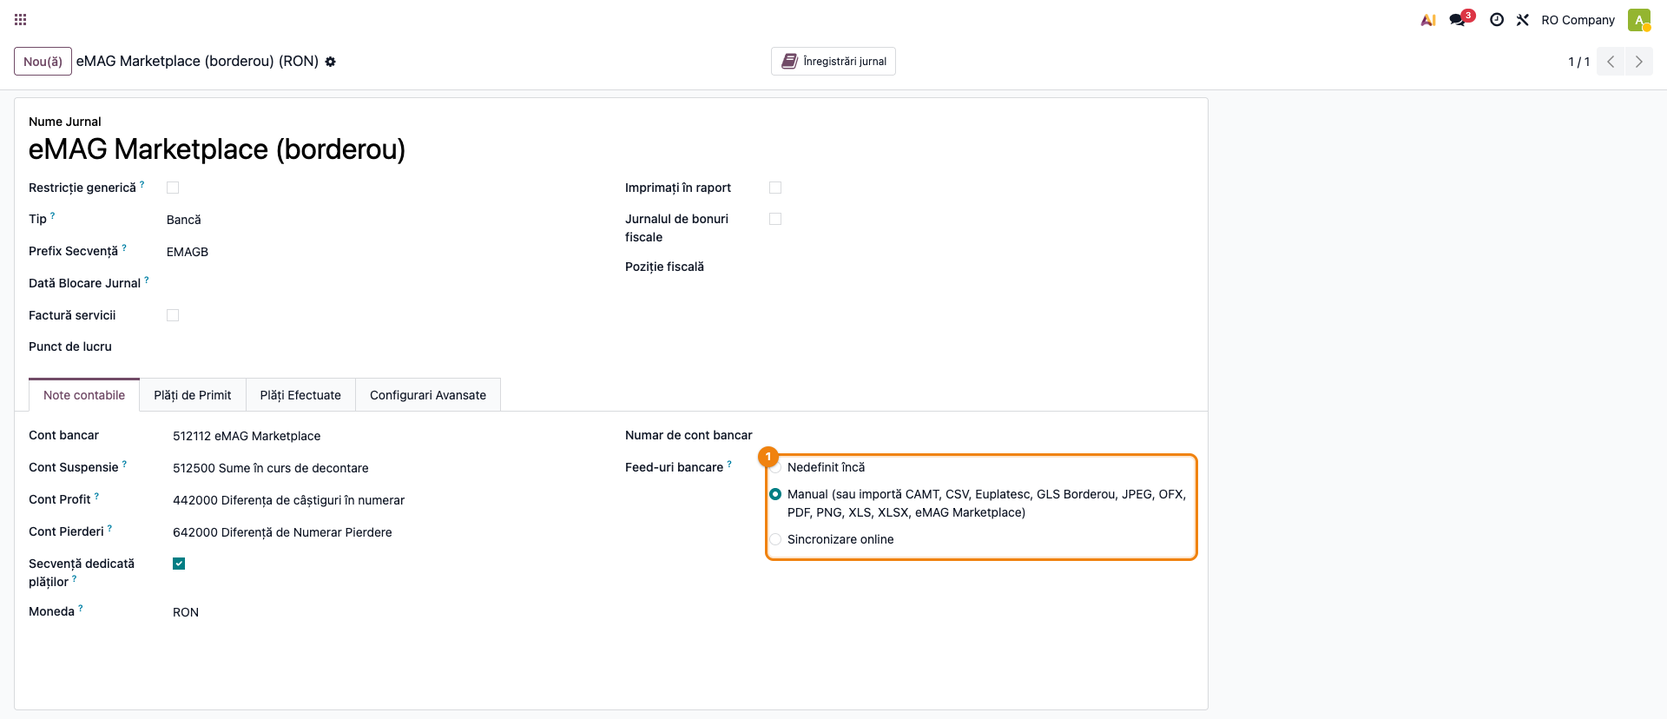
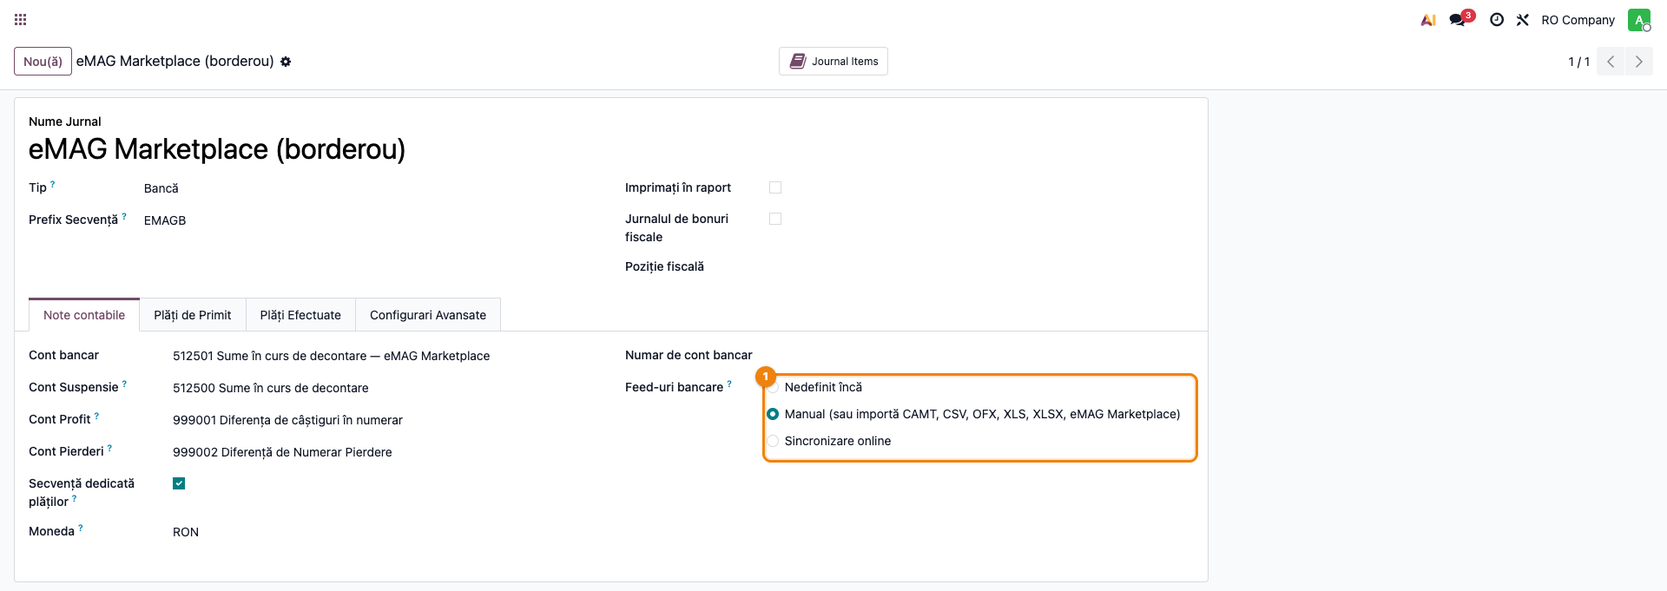
[UPD] deltatech_account_bank_statement_import_emag: foreign-currency payouts, vouchers and KM
Assisted-by: Claude Opus 5.5

diff --git a/deltatech_account_bank_statement_import_emag/FISA_CONSULTANT.md b/deltatech_account_bank_statement_import_emag/FISA_CONSULTANT.md
@@ -60,11 +60,27 @@ Roluri recomandate pentru testare:
 - **581 Viramente interne** — contrapartida liniei de virare (ZP), care se regăsește în extrasul băncii;
 - **5121 Conturi la bănci** — unde intră efectiv virarea eMAG.
 
+La borderourile în valută (eMAG HU în HUF, eMAG BG în EUR) se adaugă:
+
+- **5125.EMAG în valută** — câte un cont pentru fiecare jurnal în valută (de ex. „Sume în curs de decontare —
+  eMAG Ungaria", în HUF), separat de cel în lei, ca soldul fiecărei monede să se poată urmări distinct;
+- **665 Cheltuieli din diferențe de curs valutar** / **765 Venituri din diferențe de curs valutar** — nota de
+  diferență de curs a payout-ului, postată automat la import, și închiderea diferenței rămase pe 581 la virarea
+  în lei.
+
 Date minime pentru demo:
 - companie românească cu localizarea contabilă instalată;
 - un jurnal de tip **Bancă** dedicat eMAG, în RON, cu cont tranzitoriu (suspense) configurat;
 - un fișier *Account statement details* descărcat din eMAG (sau o mostră sintetică echivalentă);
 - opțional, facturi de client postate, cu numărul comenzii eMAG în referință, pentru reconciliere.
+
+Pentru borderourile în valută, în plus:
+- un jurnal de tip **Bancă** separat pentru fiecare monedă (de ex. `EMAGH` în HUF, `EMAGE` în EUR), cu
+  moneda setată pe jurnal;
+- cursurile BNR pentru moneda respectivă, pe fiecare zi din perioada borderoului (actualizarea automată a
+  cursurilor sau introducere manuală în **Contabilitate → Configurare → Monede**);
+- în **Contabilitate → Configurare → Setări**, secțiunea *Diferențe de curs*: jurnalul de diferențe de curs și
+  conturile 665 / 765 completate — fără ele, importul în valută este refuzat (vezi §9).
 
 Codurile de document care apar în borderou:
 
@@ -72,6 +88,7 @@ Codurile de document care apar în borderou:
 |-----|-------------|-------------------------|
 | `KD` | încasare card online | negativ |
 | `KX` | încasare ramburs | negativ |
+| `KM` | decont de vouchere (partea de voucher suportată de eMAG) | negativ |
 | `ZC` | restituire card online (retur) | pozitiv |
 | `DM` | factură eMAG (comisioane, servicii) | pozitiv |
 | `C3` | notificare de închidere pre-înrolare | pozitiv |
@@ -94,7 +111,7 @@ Codurile de document care apar în borderou:
 ### Definirea jurnalului eMAG
 
 Un jurnal separat pentru fiecare cont de vânzător eMAG și pentru fiecare monedă a borderoului
-(coloana *Document currency*).
+(coloana *Document currency*; dacă e goală, se ia *Local company currency*).
 
 | Câmp (fila Setări avansate / Informații) | Valoare | De ce |
 |---|---|---|
@@ -149,7 +166,7 @@ după coloanele din antet, deci **nu se mai deschide asistentul de mapare a colo
 ### Pasul 3 — Verificarea extrasului importat
 
 Se creează câte un extras pentru fiecare virare din fișier (grupare după *Clearing document*),
-numit **eMAG payout &lt;număr virare&gt;**, cu data liniei `ZP`.
+numit **Virare eMAG &lt;număr virare&gt;** (în interfața în engleză, *eMAG payout*), cu data liniei `ZP`.
 
 1. **Găsiți pe ecran**: fiecare linie poartă tipul documentului eMAG și referința (numărul comenzii
    pentru încasări, numărul facturii eMAG pentru comisioane). Clientul este completat automat acolo
@@ -168,6 +185,7 @@ eMAG sau spre bancă intră cu minus). Rândurile *Initial balance* / *Actual ba
 |---|---|---|---|---|
 | `KD` | Incasare card online | negativă → **pozitivă** | comanda cu numărul din *Reference ID* (`client_order_ref`) → clientul comenzii | reconciliază cu factura clientului (sau cu avansul, dacă s-a plătit înainte de livrare) |
 | `KX` | Incasare ramburs | negativă → **pozitivă** | la fel ca `KD` | reconciliază cu factura clientului |
+| `KM` | Decont voucher | negativă → **pozitivă** | de regulă **fără partener**: *Reference ID* este numărul decontului (`V-MKTP-…`) sau un număr intern eMAG, nu comanda | reconciliază cu creanța de voucher deschisă pe 461.EMAG (plata pe *Jurnal vouchere* sau linia de voucher de pe factură), **nu** cu factura clientului; vezi „Vouchere eMAG" |
 | `ZC` | Restituire card online | pozitivă → **negativă** | la fel ca `KD` (comanda returnată) | reconciliază cu încasarea aceleiași comenzi (se anulează reciproc) sau cu nota de credit către client |
 | `DM` | Factura (comisioane, servicii) | pozitivă → **negativă** | factura de furnizor din Odoo cu `ref` = *Reference ID* (`C-MKTP-…`, `A-MKTP-…`), dacă e unică → Dante International | reconciliază cu factura de furnizor, integral sau parțial |
 | `C3` | Notificare închidere pre-înrolare | pozitivă → **negativă** | ca `DM` (`E-MKTP-…`) | tratată ca `DM`: reconciliază cu factura de furnizor corespunzătoare |
@@ -195,13 +213,14 @@ contrapartida reală. Rezultatul final, pe tip de document:
 |---|---|---|---|
 | `KD` | încasare card online | **Dr 5125.EMAG = Cr 4111 Clienți** | factura clientului; dacă încasarea precede livrarea, vezi nota de TVA de mai jos (**Cr 419**) |
 | `KX` | încasare ramburs | **Dr 5125.EMAG = Cr 4111 Clienți** | factura clientului |
+| `KM` | decont de vouchere eMAG | **Dr 5125.EMAG = Cr 461.EMAG** | creanța de voucher a comenzii, deschisă pe 461.EMAG |
 | `ZC` | restituire card online | **Dr 4111 Clienți = Cr 5125.EMAG** (**Dr 419 = Cr 5125.EMAG** dacă încasarea inițială a mers pe avans) | de regulă se stinge cu încasarea (`KD`) a aceleiași comenzi; factura de stornare către client se emite separat |
 | `DM` | factură de comision / servicii Dante | **Dr 401 Furnizori (Dante) = Cr 5125.EMAG** | factura de furnizor deja înregistrată (OMFP 1802, pct. 56 alin. (3): compensarea se face numai după contabilizarea creanțelor și datoriilor; valoarea brută se prezintă în notele explicative) |
 | `C3` | notificare închidere pre-înrolare | **Dr 401 Furnizori (Dante) = Cr 5125.EMAG** | factura de furnizor cu `ref` = `E-MKTP-…`; tratament identic cu `DM` **doar dacă există factura Dante**. Fără factură, nota pe 401 nu are document justificativ (OMFP 1802, pct. 56 alin. (2)): provizoriu **Dr 473 = Cr 5125.EMAG**, apoi la primirea facturii **Dr 401 = Cr 473**, sau **Dr 6xx = Cr 473** dacă se stabilește că e o reținere fără factură. Natura documentului se verifică în contractul cu eMAG |
 | `ZP` | virare către bancă | **Dr 581 Viramente interne = Cr 5125.EMAG** | linia unică din extrasul băncii reale; ambele linii se închid pe 581, deci verificarea este **sold 581 = 0** (reconcilierea pe 581 se face doar dacă contul o permite în baza voastră) |
 | — | extrasul băncii reale (încasare de la Dante sau HeyBlu) | **Dr 5121 Bancă = Cr 581 Viramente interne** | linia `ZP`, prin 581 |
 
-Verificare: pe o virare completă, suma liniilor `KD`+`KX`−`ZC`−`DM`−`C3` este egală cu `ZP`, deci
+Verificare: pe o virare completă, suma liniilor `KD`+`KX`+`KM`−`ZC`−`DM`−`C3` este egală cu `ZP`, deci
 5125.EMAG iese pe zero (exemplu: 1.000,00 + 500,00 − 100,00 − 250,00 − 50,00 = 1.100,00).
 
 Nu se folosește **Dr 5121 = Cr 4111** cu partener HeyBlu sau Dante (clientul este clientul final) și nici
@@ -279,6 +298,68 @@ borderou real analizat, din 64 de potriviri, 5 diferențe erau reale (de la sub 
 **cauza lor nu a fost confirmată** — nu se presupune transport sau voucher fără să se
 verifice comanda.
 
+### Vouchere eMAG
+
+Clientul poate plăti o parte din comandă cu un voucher. Linia `KD` / `KX` din borderou vine cu suma
+**plătită efectiv de client**, adică totalul comenzii minus voucher, iar importul o aduce ca atare: modulul
+nu are nicio regulă pentru vouchere. Ce se schimbă este doar factura cu care se reconciliază linia, iar
+aceasta depinde de cine suportă voucherul și de configurarea backend-ului eMAG din conectorul
+`deltatech_marketplace_emag` (fila *Comenzi și produse*).
+
+**Voucherul acordat de vânzător** este o reducere comercială obișnuită: conectorul îl pune pe comandă ca
+linie pe **Produs de discount**, cu TVA, și scade baza de TVA. Factura are deja totalul plătit de client, deci
+linia `KD` / `KX` o închide exact. Voucherul vânzătorului nu se recuperează de la nimeni.
+
+**Voucherul suportat de eMAG** nu scade baza de TVA (voucher cu utilizări multiple, art. 274^1 și art. 286
+alin. (1) lit. f) Cod fiscal): TVA-ul rămâne pe valoarea întreagă a mărfii, iar partea voucherului este o
+creanță la eMAG, închisă de **decontul de vouchere**. eMAG îl plătește **în aceeași virare** cu
+borderoul, ca linie `KM` „Decont voucher" (cu o linie `ZP` de aceeași valoare). Există două
+variante: voucherul **nu este pus pe factură** sau **este pus pe factură**.
+
+| Variantă (backend eMAG) | Factura clientului | Ce închide linia `KD` / `KX` |
+|---|---|---|
+| **A. Voucherul nu e pe factură** (implicit): *Jurnal vouchere* completat, bifa *Import vouchers as product lines* debifată | valoarea întreagă; la postare, conectorul înregistrează partea eMAG ca plată pe *Jurnal vouchere*, cu numărul comenzii eMAG în memo | restul de plată al facturii, egal cu suma încasată |
+| **B. Voucherul e pe factură:** bifa *Import vouchers as product lines* activă și *Produs voucher* completat | are o linie negativă pe *Produs voucher*, fără TVA, deci totalul facturii este suma plătită de client | totalul facturii |
+
+În ambele variante linia din borderou se potrivește exact cu ce mai are clientul de plătit, iar 4111 se închide.
+Notele contabile, pentru un voucher eMAG de 50 lei pe o comandă de 300 lei (încasat `KD` = 250 lei):
+
+| Moment | A. Voucherul nu e pe factură | B. Voucherul e pe factură |
+|---|---|---|
+| Factura | `4111 = 707 + 4427` (300 lei) | `4111 (250) + 461.EMAG (50) = 707 + 4427` (300 lei) |
+| Postarea facturii | `461.EMAG = 4111` (50 lei, plata pe *Jurnal vouchere*) | — |
+| Linia `KD` din borderou | `5125.EMAG = 4111` (250 lei) | `5125.EMAG = 4111` (250 lei) |
+| Linia `KM` din borderou (decontul de vouchere) | `5125.EMAG = 461.EMAG` (50 lei) | `5125.EMAG = 461.EMAG` (50 lei) |
+
+„461.EMAG" este analiticul de debitori diverși pentru Dante International: în varianta A este contul
+de încasări în curs al metodelor de plată de pe *Jurnal vouchere*; în varianta B este contul de
+venit setat pe *Produs voucher*. Dacă pe *Produs voucher* rămâne un cont de venit, venitul apare micșorat,
+iar linia `KM` din borderou nu are nicio creanță pe care s-o închidă — contul se alege
+împreună cu contabilul.
+
+Varianta A este cea recomandată: linia fără TVA din varianta B este respinsă de validarea
+e-Factura (CIUS-RO cere cel puțin o taxă pe fiecare linie), iar factura apare sub valoarea mărfii. Pentru
+extrasul eMAG cele două variante dau aceeași potrivire.
+
+Cazuri speciale:
+
+- **Backend fără *Jurnal vouchere* și fără *Produs voucher*:** voucherul rămâne doar notă pe comandă. Factura
+  are valoarea întreagă, `KD` / `KX` o acoperă parțial, iar diferența egală cu voucherul rămâne pe 4111.
+  Nu se trece pe diferențe de rotunjire: se înregistrează partea eMAG pe 461.EMAG (o plată pe un jurnal
+  cu acest cont) sau se completează configurarea backend-ului pentru comenzile următoare.
+- **Comandă facturată înainte să existe voucherul pe ea:** conectorul nu modifică o factură postată și
+  postează doar un mesaj pe comandă. Diferența rămâne pe 4111, ca mai sus; dacă factura se corectează (notă
+  de creditare sau nu) este o decizie a contabilului.
+- **Livrare la locker:** partea de voucher aplicată pe taxa de transport nu intră pe factură și scade din
+  ramburs (`KX`); suma rămâne egală cu ce are clientul de plătit pe factură.
+- **Decontul de vouchere în borderou:** vine ca linie `KM` „Decont voucher" în aceeași virare, verificat pe
+  borderouri reale eMAG HU și BG (octombrie 2026). *Reference ID* este numărul decontului (`V-MKTP-HU-…`)
+  sau un număr intern eMAG, nu comanda, deci clientul nu se completează și potrivirea cu creanța de pe
+  461.EMAG se face după sumă și dată. Dacă suma decontului nu se regăsește într-o singură creanță, verificați
+  dacă acoperă voucherele mai multor comenzi și reconciliați `KM` cu toate liniile respective.
+- **Comandă anulată, cu voucher:** vezi „Vouchere pe comanda anulată" mai sus (nu e verificat pe un borderou
+  real).
+
 ### Când încasarea este deja înregistrată pe alt jurnal
 
 Borderoul presupune că factura clientului este **deschisă** până la reconciliere. Dacă firma înregistrează
@@ -306,6 +387,34 @@ borderoul eMAG (atunci plata pe celălalt jurnal nu se mai înregistrează pentr
 existent (atunci borderoul se folosește doar pentru `ZP`, `DM` și `C3`). Nu le rulați pe amândouă pentru
 aceleași comenzi.
 
+### Borderou în valută (eMAG HU, eMAG BG)
+
+Borderourile eMAG Ungaria (HUF) și eMAG Bulgaria (EUR) se importă într-un jurnal în moneda borderoului.
+Fiecare linie rămâne la data ei și se convertește în lei la cursul BNR din acea dată (OMFP 1802/2014
+pct. 319). Payout-ul se închide pe zero în valută, dar în lei pe 5125.EMAG rămâne un sold, pentru că o
+încasare (ex. ramburs KX din 28.09) și compensarea ei (ZP din 02.10) au cursuri diferite.
+
+Imediat după import, modulul postează o notă de **diferență de curs** pentru payout (pct. 322), în jurnalul
+de diferențe de curs al companiei, cu data virării:
+
+| Sold rămas pe 5125.EMAG | Notă |
+|---|---|
+| debitor | `665 = 5125.EMAG` |
+| creditor | `5125.EMAG = 765` |
+
+Nota se deschide din butonul **Diferență de curs** de pe extras. Dacă extrasul se modifică după import,
+butonul **Recalculează diferența de curs** stornează nota și o postează pe cea nouă.
+
+![Extrasul eMAG în EUR, cu butoanele Diferență de curs și Recalculează diferența de curs](screenshots/04_extras_valuta.png)
+
+![Nota de diferență de curs a payout-ului, în jurnalul de diferențe de curs](screenshots/05_nota_diferenta_curs.png)
+
+Virarea în lei se reconciliază prin contul de transfer intern **581**: liniile ZP din jurnalul în valută
+cu contrapartida 581, iar încasarea din banca în lei cu linia deschisă din 581. Diferența dintre cursul
+BNR al zilei virării și leii primiți efectiv rămâne deschisă pe 581 și se închide din
+**Contabilitate → Elemente de jurnal**, filtrat pe 581: se selectează linia, **Reconciliază**, cont
+**665** (sau **765**).
+
 ## 7. Legături cu alte module / declarații
 
 | Modul / proces | Rol în flux | Tip legătură |
@@ -316,9 +425,15 @@ aceleași comenzi.
 | `deltatech_marketplace_emag` | importă comenzile eMAG și scrie numărul comenzii în referință — baza identificării automate a clientului | complementar (recomandat) |
 | `deltatech_account_bank_statement_import_gls` / `..._euplatesc` | același tipar, pentru borderourile GLS și decontările Euplatesc | frați (opțional) |
 
+| Diferențe de curs (setările contabile ale companiei) | jurnalul și conturile 665 / 765 pe care se postează nota de diferență de curs a payout-ului în valută | configurare (obligatorie doar pentru borderourile în valută) |
+| Cursuri valutare (`res.currency.rate`) | cursul BNR al fiecărei date din borderou, la care se convertesc în lei liniile în valută | date (obligatorii doar pentru borderourile în valută) |
+
 Ce este automat: recunoașterea fișierului, sărirea rândurilor de sold, gruparea pe virări,
 inversarea semnelor, completarea clientului, verificarea închiderii pe zero și protecția la duplicate.
-Ce rămâne manual: reconcilierea liniilor cu facturile și închiderea contului 581 pe extrasul bancar.
+La borderourile în valută, tot automat: moneda extrasului din fișier, refuzul unui fișier în altă monedă
+decât jurnalul sau cu mai multe monede, și nota de diferență de curs a fiecărui payout.
+Ce rămâne manual: reconcilierea liniilor cu facturile, închiderea contului 581 pe extrasul bancar și, la
+valută, închiderea pe 665 / 765 a diferenței rămase pe 581 după virarea în lei.
 
 ## 8. Verificări pentru consultant
 
@@ -335,7 +450,20 @@ Ce rămâne manual: reconcilierea liniilor cu facturile și închiderea contului
 - [ ] După reconcilierea completă a unei virări, contul de tranzit are sold zero.
 - [ ] O comandă anulată după încasare (`KD` + `ZC` pe același *Reference ID*) se reconciliază cu ea însăși și lasă 4111 pe zero.
 - [ ] S-a verificat dacă facturile din borderou sunt deja plătite pe alt jurnal (curier, POS); dacă da, s-a decis care flux ține încasarea, ca să nu apară de două ori.
+- [ ] Pe backend-ul eMAG este completat *Jurnal vouchere* (cu 461.EMAG drept cont de încasări în curs) sau, în varianta B (voucherul pe factură), *Produs voucher* fără taxe și cu 461.EMAG drept cont de venit; o comandă cu voucher eMAG se reconciliază exact cu linia ei `KD` / `KX`.
 - [ ] Contul tranzitoriu ales are tipul *Active circulante*: domeniul jurnalului nu acceptă alt tip, deci 473000 standard (*Datorii curente*) nu poate fi ales ca atare.
+
+Pentru borderourile în valută (eMAG HU, eMAG BG):
+
+- [ ] Există câte un jurnal eMAG pentru fiecare monedă, fiecare cu propriul cont 5125.EMAG; jurnalul în lei nu primește fișiere în valută.
+- [ ] Jurnalul de diferențe de curs și conturile 665 / 765 sunt completate în setările contabile ale companiei.
+- [ ] Cursurile BNR ale monedei există pentru toate datele din borderou (nu doar pentru data virării).
+- [ ] Un fișier în HUF importat în jurnalul în EUR (sau în lei) este refuzat cu mesajul de monedă diferită; un fișier cu RON și EUR amestecate este refuzat cu mesajul de monede multiple.
+- [ ] Liniile extrasului în valută păstrează fiecare data ei (nu toate data virării).
+- [ ] Pe extras apare butonul **Diferență de curs**, iar nota deschisă are data virării, jurnalul de diferențe de curs și contul 665 sau 765.
+- [ ] Soldul 5125.EMAG al payout-ului este zero și în valută, și în lei (filtrați elementele de jurnal pe cont și urmăriți coloanele *Sold* și *Sumă în valută*).
+- [ ] După o modificare a extrasului, **Recalculează diferența de curs** stornează nota veche și postează una nouă; contul 5125.EMAG rămâne pe zero în lei.
+- [ ] Pe un jurnal eMAG în lei nu apar nici butonul, nici nota de diferență de curs.
 
 ## 9. Mesaje de eroare frecvente
 
@@ -349,17 +477,28 @@ Ce rămâne manual: reconcilierea liniilor cu facturile și închiderea contului
 | „You can't create a new statement line without a suspense account..." | Jurnalul nu are cont tranzitoriu configurat | Setați contul tranzitoriu pe jurnal |
 | Clientul nu e completat pe unele linii de încasare | Comanda eMAG nu există în Odoo sau referința nu se potrivește unic | Completați manual partenerul la reconciliere; verificați importul comenzilor din `deltatech_marketplace_emag` |
 | Aceeași încasare apare de două ori pe client (plată pe alt jurnal + linie din borderou) | Factura era deja plătită pe alt jurnal (curier), iar borderoul a fost reconciliat peste ea după desfacerea plății | Alegeți un singur flux pentru încasare; vezi secțiunea „Când încasarea este deja înregistrată pe alt jurnal" |
+| „Valuta extrasului bancar (HUF) nu este aceeași cu valuta jurnalului (EUR)." | Fișierul a fost încărcat în jurnalul altei monede (de ex. borderoul eMAG HU în jurnalul eMAG BG sau în cel în lei) | Importați fișierul în jurnalul eMAG al monedei lui; dacă nu există, creați-l (vezi „Definirea jurnalului eMAG") |
+| „Fișierul eMAG conține sume în mai multe monede (EUR, RON). Un jurnal are o singură monedă: …" | Fișierul acoperă payout-uri în monede diferite (de ex. un payout în lei urmat de unul în EUR) | Descărcați din eMAG câte un fișier pentru fiecare monedă și importați-l în jurnalul acelei monede |
+| „Setați jurnalul de diferențe de curs și conturile de venituri și cheltuieli din diferențe de curs în setările contabile ale companiei … înainte de a importa borderouri eMAG în valută." | Compania nu are jurnal de diferențe de curs sau conturile 665 / 765 în setările contabile | Completați-le în **Contabilitate → Configurare → Setări**, secțiunea *Diferențe de curs*, și reluați importul |
+| „Liniile extrasului … nu se închid pe zero în EUR, deci diferența nu este doar de curs. Completați mai întâi extrasul." | La **Recalculează diferența de curs**: extrasul a fost modificat după import (linie adăugată, ștearsă sau cu altă sumă) și nu mai e un payout complet | Readuceți extrasul la liniile borderoului (sau ștergeți-l și reimportați fișierul), apoi recalculați |
+| În valută, 5125.EMAG are sold zero în valută, dar nu și în lei | Nota de diferență de curs lipsește (extras importat înainte de versiunea 19.0.2.1.0) sau extrasul a fost modificat după import | Apăsați **Recalculează diferența de curs** pe extras |
+| Liniile în lei ale extrasului în valută au sume greșite | Lipsesc cursurile BNR pentru unele date din borderou, iar Odoo a convertit acele linii la cel mai apropiat curs anterior | Completați cursurile lipsă, ștergeți extrasul și reimportați fișierul |
+| Factura clientului rămâne cu rest de plată egal cu valoarea unui voucher, după reconcilierea liniei `KD` / `KX` | Backend-ul eMAG nu are nici *Jurnal vouchere*, nici *Produs voucher*, sau factura a fost emisă înainte ca voucherul să ajungă pe comandă | Înregistrați partea eMAG pe 461.EMAG și completați configurarea backend-ului; vezi „Vouchere eMAG" |
 | Contul de tranzit rămâne cu sold după reconciliere | O linie a rămas nereconciliată (frecvent o comandă neîncasată integral sau un voucher eMAG) | Identificați linia rămasă în widgetul de reconciliere |
 
 ## 10. Capturi de ecran
 
 Capturile (`readme/screenshots/`) sunt **generate automat** din `tests/test_screenshots.py`
 (mixinul `ScreenshotCase` din `l10n_ro_doc_screenshots`, import defensiv), în **limba română**, pe
-compania „RO Company" în RON (`prepare_ro_company`):
+compania „RO Company" în RON (`prepare_ro_company`); capturile 04–05 folosesc un borderou eMAG BG în EUR
+cu cursuri diferite pe datele liniilor:
 
 1. `01_configurare_jurnal.png` — jurnalul eMAG: conturile și formatele de import, între care „eMAG Marketplace".
 2. `02_incarcare_borderou.png` — lista Extrase bancă, de unde se încarcă fișierul original.
 3. `03_extras_importat.png` — extrasul importat: liniile borderoului, semnele inversate, soldul zero.
+4. `04_extras_valuta.png` — extrasul în EUR: liniile la datele lor, butonul **Diferență de curs** și
+   **Recalculează diferența de curs**.
+5. `05_nota_diferenta_curs.png` — nota de diferență de curs a payout-ului, pe 5125.EMAG și 765 (sau 665).
 
 Regenerare:
 

diff --git a/deltatech_account_bank_statement_import_emag/index.md b/deltatech_account_bank_statement_import_emag/index.md
@@ -1,10 +1,10 @@
 # eMAG Marketplace Statement Import (localizat la `deltatech_account_bank_statement_import_emag/index.md`)
 
 - **Nume Tehnic:** `deltatech_account_bank_statement_import_emag`
-- **Versiune:** `19.0.2.0.7`
+- **Versiune:** `19.0.2.1.1`
 - **Cale:** https://github.com/terrabit-solutions/bitshop_ent/tree/19.0/deltatech_account_bank_statement_import_emag
 - **Cale Locală:** `odoo-addons/bitshop_ent/deltatech_account_bank_statement_import_emag`
-- **Ultima Ingestie:** `2026-10-02`
+- **Ultima Ingestie:** `2026-10-24`
 - **Fișă Consultant:** [FISA_CONSULTANT.md](FISA_CONSULTANT.md)
 
 #### 1. Sumar
@@ -44,11 +44,40 @@ liniile pregătite pentru reconciliere și clientul completat automat acolo unde
   comision), referința este numărul facturii, căutat în facturile de furnizor deja înregistrate.
   Potrivirile ambigue lasă linia neasignată, pentru decizia operatorului.
 - **Protecție la duplicate**: fiecare linie primește un identificator unic de import bazat pe *SAP
-  document ID*; reimportul aceluiași fișier este detectat.
+  document ID*; reimportul aceluiași fișier este detectat. eMAG dă tuturor liniilor `ZP` ale unei
+  virări același *SAP document ID* (numărul virării); liniile al căror ID se repetă în fișier primesc
+  în identificator și suma, plus un număr de apariție, ca importul să nu cadă pe constrângerea de
+  unicitate. Liniile cu ID unic își păstrează identificatorul, deci extrasele deja importate sunt în
+  continuare recunoscute la reimport.
+- **Borderouri în valută** (eMAG HU în HUF, eMAG BG în EUR): se importă într-un jurnal în moneda
+  borderoului (câte un jurnal și un cont 5125.EMAG separat pentru fiecare monedă). Fiecare linie se
+  convertește la cursul BNR din data ei, deci virarea se închide pe zero în valută, dar lasă un sold
+  în lei pe contul de decontare. Imediat după import se postează automat o **notă de diferență de
+  curs** per payout, datată cu data virării, în jurnalul de diferențe de curs al companiei:
+  `665 = 5125.EMAG` pentru sold debitor, `5125.EMAG = 765` pentru sold creditor. Pe extras apar
+  butonul **Diferență de curs** (deschide nota) și **Recalculează diferența de curs** (storno al
+  notei și postarea alteia din liniile curente). Jurnalele în moneda companiei nu sunt afectate. Fără
+  jurnalul de diferențe de curs și conturile 665/765 din setările contabilității, importul în
+  valută este refuzat.
+- **Moneda extrasului**: se citește și din coloana *Local company currency* când celula *Document
+  currency* este goală; un fișier a cărui monedă diferă de cea a jurnalului este refuzat și în acest
+  caz (înainte, un fișier EUR putea intra necontrolat într-un jurnal RON).
+- **Vouchere eMAG**: linia `KD` / `KX` vine cu suma plătită efectiv de client, iar importul nu are
+  reguli speciale pentru vouchere; diferă doar factura cu care se reconciliază. Voucherul vânzătorului
+  este reducere comercială obișnuită. Voucherul suportat de eMAG are două variante în conectorul
+  eMAG: **pe factură** (linie negativă pe *Produs voucher*, fără TVA) sau **nu pe factură**
+  (factura la valoarea întreagă, partea eMAG ca plată pe *Jurnal vouchere*); în ambele cazuri
+  creanța la eMAG stă pe 461.EMAG. Cazurile speciale (backend fără configurare de voucher, factură
+  postată înaintea voucherului, livrare în locker) sunt în fișa consultant.
+- **Codul `KM` (Decont voucher)**: decontul de vouchere al eMAG vine în aceeași virare cu restul
+  borderoului, cu o linie `ZP` de aceeași valoare; intră cu sumă pozitivă, de regulă fără partener,
+  și se reconciliază cu creanța de voucher deschisă pe 461.EMAG (`Dr 5125.EMAG = Cr 461.EMAG`), nu cu
+  factura clientului. Verificarea de închidere pe zero include `KM`: `KD`+`KX`+`KM`−`ZC`−`DM`−`C3` = `ZP`.
 - **Interfață în română**: mesajele de eroare ale importului sunt traduse (`i18n/ro.po`).
 - **Tratament pe Document code** (detaliat în fișa consultant): `KD` (încasare card) și `KX`
   (ramburs) intră cu sumă pozitivă, cu numărul comenzii eMAG, și se reconciliază cu factura
-  clientului; `ZC` (restituire) intră negativ și, dacă anulează o încasare a aceleiași comenzi, se
+  clientului; `KM` (decont de vouchere) intră pozitiv și se reconciliază cu creanța de voucher
+  de pe 461, nu cu factura; `ZC` (restituire) intră negativ și, dacă anulează o încasare a aceleiași comenzi, se
   reconciliază cu ea, fără factură; `DM` (facturi eMAG) și `C3` (notificări) intră negativ și se
   reconciliază cu factura de furnizor deja înregistrată, parțial când eMAG reține doar o parte;
   `ZP` este suma efectiv virată, reconciliată cu extrasul bancar real prin contul de viramente
@@ -79,6 +108,7 @@ liniile pregătite pentru reconciliere și clientul completat automat acolo unde
 #### 3. Dependențe
 
 - `account_bank_statement_import`
+- `account_accountant` (formularul extrasului, butoanele de diferență de curs)
 - `account_bank_statement_import_csv`
 - [deltatech_account_bank_statement_import](../deltatech_account_bank_statement_import/index.md)
 
@@ -88,7 +118,8 @@ override-ul modulului trebuie să ruleze înaintea interceptorului CSV/XLSX stan
 #### 4. Componente Cheie
 
 Sumarul și funcționalitățile din secțiunile 1–2 provin din `readme/DESCRIPTION.md`, completate din
-`readme/USAGE.md`, `readme/CONFIGURE.md` și fișa consultant; pentru această secțiune s-a analizat suplimentar `models/account_journal.py`,
+`readme/USAGE.md`, `readme/CONFIGURE.md`, `readme/HISTORY.md` și fișa consultant; pentru această secțiune s-au analizat suplimentar
+`models/account_journal.py`, `models/account_bank_statement.py` și `views/account_bank_statement_views.xml`,
 fiindcă DESCRIPTION.md nu detaliază implementarea tehnică.
 
 **Modele**
@@ -103,9 +134,25 @@ fiindcă DESCRIPTION.md nu detaliază implementarea tehnică.
   partenerul fiecărei linii după numărul comenzii sau numărul facturii de furnizor
   (`_emag_partner_from_row`).
 
-*Nu mai există câmpuri sau vizualizări proprii pe jurnal în această versiune: câmpul
-`emag_check_balance` și view-ul care îl afișa (`views/account_journal_views.xml`) au fost
+- `account.bank.statement` (extins): `emag_exchange_move_id` (nota de diferență de curs a payout-ului),
+  `emag_exchange_applicable` (calculat: extras eMAG importat într-un jurnal în altă monedă decât a
+  companiei); `_emag_exchange_difference()` calculează soldul în lei al liniilor de pe contul
+  jurnalului (doar dacă liniile se închid în valută), `_emag_post_exchange_difference()` postează nota
+  pe 665/765 în jurnalul de diferențe de curs, `action_emag_recompute_exchange_difference()`
+  stornează nota și o postează din nou, `action_emag_open_exchange_move()` deschide nota.
+
+*Jurnalul nu mai are câmpuri sau vizualizări proprii: `emag_check_balance` și view-ul său au fost
 eliminate odată cu scoaterea opțiunii de dezactivare a verificării de sold.*
+
+**Vizualizări**
+
+- `view_bank_statement_form_emag_exchange`: moștenește formularul extrasului din `account_accountant`;
+  adaugă butonul **Recalculează diferența de curs** (cu confirmare, vizibil doar pe extrasele în
+  valută) și butonul statistic **Diferență de curs** către nota postată.
+
+**Acțiuni Automate / Acțiuni Server**
+
+- Nu există cron-uri sau acțiuni server; nota de diferență de curs se postează din fluxul de import.
 
 #### 5. Conexiuni
 

diff --git a/log.md b/log.md
@@ -4,6 +4,19 @@ This is an append-only log of all operations performed on the wiki.
 
 ---
 
+## [2026-10-24] Re-ingestie: `deltatech_account_bank_statement_import_emag` (19.0.2.1.1), cu fișa consultant
+
+- **Acțiune:** actualizarea paginii (un subagent `documentarist-wiki`) pentru *eMAG Marketplace Statement Import*. Au intrat:
+  - borderourile în valută (eMAG HU în HUF, eMAG BG în EUR), cu nota automată de diferență de curs per payout pe 665/765 și butonul de recalculare;
+  - moneda citită și din *Local company currency*;
+  - ID-urile de import unice când liniile `ZP` repetă *SAP document ID*;
+  - voucherele eMAG în cele două variante (pe factură sau nu);
+  - codul `KM` (decont de vouchere în aceeași virare, reconciliat cu 461), confirmat pe borderourile reale eMAG HU și BG.
+- **Sursă:** `readme/DESCRIPTION.md`, `USAGE.md`, `CONFIGURE.md`, `HISTORY.md`, `FISA_CONSULTANT.md`, `__manifest__.py`, `models/account_bank_statement.py` și view-ul de extras, toate de pe branch-ul PR terrabit-solutions/bitshop_ent#473, încă neunit la data ingestiei. Codul pentru valută e pe `19.0` din PR #435.
+- **Fișă consultant copiată (cu capturi):** `FISA_CONSULTANT.md` + 5 capturi în `screenshots/`. Capturile 04 (extrasul în EUR) și 05 (nota de diferență de curs) sunt noi; 01–03 au fost regenerate pe planul de conturi RO.
+- **Dependențe/Conexiuni:** `account_accountant` adăugat la dependențe (text); conexiunile neschimbate.
+- **Fișiere actualizate:** `deltatech_account_bank_statement_import_emag/` (index.md, FISA_CONSULTANT.md, screenshots/), `index.md`, `log.md`, `.index/`.
+
 ## [2026-10-23] Pagină nouă: `deltatech_ai_usage` (19.0.1.0.1), cu fișa consultant; re-ingestie `deltatech_ai_anthropic` (19.0.1.3.0)
 
 - **Acțiune:** pagină nouă pentru *AI Usage and Cost Tracking*: jurnalul fiecărei cereri către furnizorii AI (OpenAI, Google, Anthropic), cu tokenii pe tipuri, căutările web și costul estimat din lista de prețuri, atribuit pe apel, agent, modul de origine, utilizator și companie. Totodată, actualizarea paginii `deltatech_ai_anthropic` pentru 19.0.1.3.0, care trimite cererile Claude în jurnal. Doi subagenți `documentarist-wiki`, în paralel.
